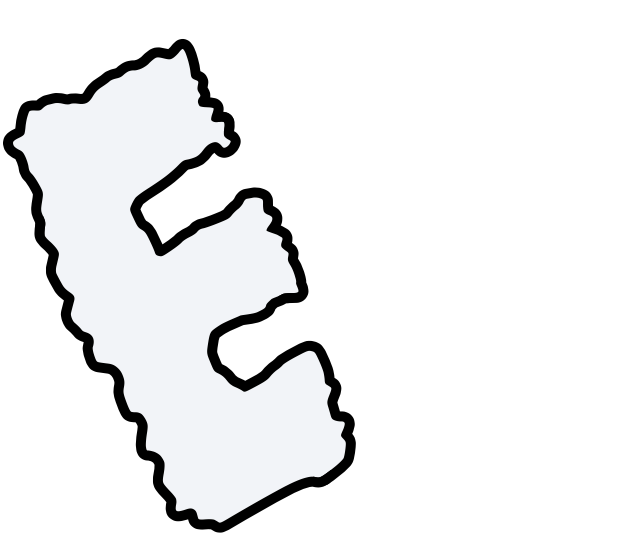
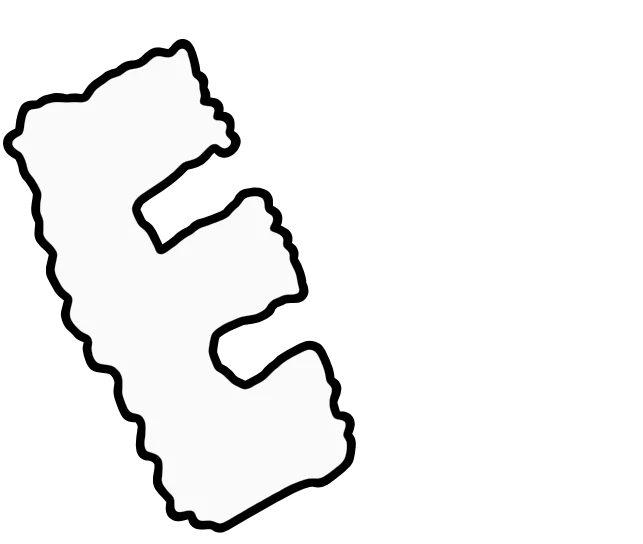
design improve

diff --git a/src/components/aboutComponent.svelte b/src/components/aboutComponent.svelte
@@ -2,25 +2,31 @@
 	// import { fade } from 'svelte/transition';
 </script>
 
-<div class="mb-2 px-2 text-lg *:my-4 sm:mb-12 sm:*:text-2xl lg:px-8">
-	<p>I am a freelance journalist and graduate student at the UC Berkeley Graduate School of Journalism.</p>
+<div
+	class="text-md mb-2 px-2 leading-[1.3] *:my-4 sm:mb-12 sm:text-2xl sm:leading-8 lg:px-8">
 	<p>
-		I've mainly worked in radio and podcasting, producing daily news, narrative series, long-form investigations, even
+		I am a freelance journalist and graduate student at the Berkeley School of
+		Journalism.
+	</p>
+	<p>
+		Currently, I'm the host of <a
+			class="underline"
+			href="https://radiopacific.co/">Radio Pacific</a
+		>, a new show about California from KALW. I've produced audio storytelling
+		of every kind: daily news, narrative series, long-form investigations, and
 		live talk shows.
 	</p>
 	<p>
-		I've followed stories all across the United States and around the world —
+		My stories have taken me all across the United States and around the world —
 		interviewing an alleged Russian spy in Kazakhstan, following vigilantes
 		through the Myanmar hills, and tracking down state corruption in rural
 		India.
 	</p>
 	<p>
-		I've embedded in crypto communes, explored the lab where Ecstasy was
-		created, and interviewed Nobel laureates. The stranger the story, the more I
-		want to cover it. I also take photographs, some of which you can view <a
-			class="underline"
-			href="https://photos.eli.fm">here</a
-		>.
+		I've embedded in crypto communes, visited the lab where more than 100
+		psychedelics were created, and interviewed Nobel laureates. The stranger the
+		story, the more I want to cover it. I also take photographs, some of which
+		you can view <a class="underline" href="https://photos.eli.fm">here</a>.
 	</p>
 	<p>
 		I grew up in Birmingham, Alabama and currently live in Berkeley, California.

diff --git a/src/app.css b/src/app.css
@@ -3,7 +3,7 @@
 @tailwind utilities;
 
 body {
-	@apply bg-slate-100;
+	@apply bg-stone-50;
 }
 
 @font-face {
@@ -39,7 +39,7 @@ body {
 	}
 
 	.home-card {
-		@apply relative -mx-4 -mb-11 flex cursor-pointer justify-between border-t border-black bg-slate-100 px-2 pb-6 pt-3 transition-transform duration-500 ease-out hover:-translate-y-6 sm:hover:-translate-y-8;
+		@apply relative -mx-4 -mb-11 flex cursor-pointer justify-between border-t border-black bg-stone-50 px-2 pb-6 pt-3 transition-transform duration-500 ease-out hover:-translate-y-6 sm:hover:-translate-y-8;
 	}
 
 	.layered-image {

diff --git a/src/components/workComponent.svelte b/src/components/workComponent.svelte
@@ -6,12 +6,12 @@
 	let filteredStores = stories.filter((stories) => stories.publish);
 
 	const colors = {
-		'New York Times': 'bg-yellow-200',
+		'The New York Times': 'bg-yellow-200',
 		Radiolab: 'bg-red-200',
-		'New Yorker': 'bg-blue-200',
-		Freelance: 'bg-green-200',
+		'The New Yorker': 'bg-green-200',
+		Freelance: 'bg-orange-200',
 		NPR: 'bg-purple-200',
-		'The Hive': 'bg-orange-200'
+		KALW: 'bg-blue-200'
 	};
 </script>
 

diff --git a/src/routes/+page.svelte b/src/routes/+page.svelte
@@ -48,7 +48,7 @@
 
 <div class="flex overflow-clip">
 	<div
-		class="flex h-screen w-full flex-col justify-between bg-slate-100 px-4 sm:p-4 lg:w-3/5">
+		class="flex h-screen w-full flex-col justify-between bg-stone-50 px-4 pt-4 sm:p-4 lg:w-3/5">
 		<Home {about} on:click={() => (about = !about)} />
 		{#if about}
 			<About />
